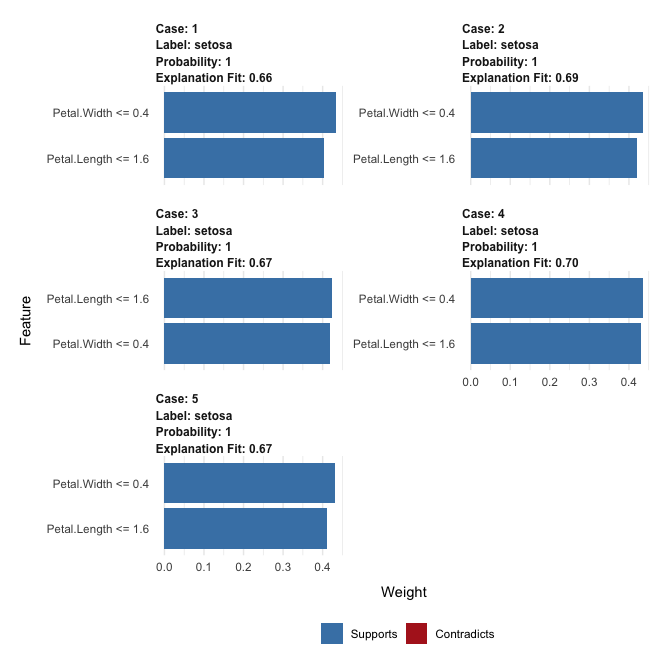
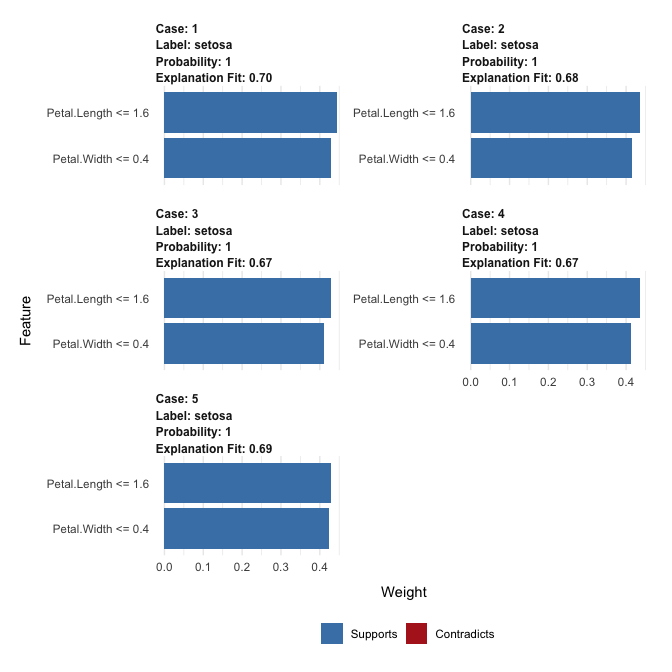
fix urls

diff --git a/README.md b/README.md
@@ -7,7 +7,7 @@
 
 [![R-CMD-check](https://github.com/thomasp85/lime/actions/workflows/R-CMD-check.yaml/badge.svg)](https://github.com/thomasp85/lime/actions/workflows/R-CMD-check.yaml)
 [![Codecov test
-coverage](https://codecov.io/gh/thomasp85/lime/branch/main/graph/badge.svg)](https://codecov.io/gh/thomasp85/lime?branch=main)
+coverage](https://codecov.io/gh/thomasp85/lime/branch/main/graph/badge.svg)](https://app.codecov.io/gh/thomasp85/lime?branch=main)
 [![CRAN_Release_Badge](http://www.r-pkg.org/badges/version-ago/lime)](https://CRAN.R-project.org/package=lime)
 [![CRAN_Download_Badge](http://cranlogs.r-pkg.org/badges/lime)](https://CRAN.R-project.org/package=lime)
 <!-- badges: end -->
@@ -77,16 +77,16 @@ explanation
 #> # A tibble: 10 × 13
 #>    model_type   case  label label_prob model_r2 model_intercept model_prediction
 #>    <chr>        <chr> <chr>      <dbl>    <dbl>           <dbl>            <dbl>
-#>  1 classificat… 1     seto…          1    0.655           0.130            0.969
-#>  2 classificat… 1     seto…          1    0.655           0.130            0.969
-#>  3 classificat… 2     seto…          1    0.685           0.123            0.980
-#>  4 classificat… 2     seto…          1    0.685           0.123            0.980
-#>  5 classificat… 3     seto…          1    0.665           0.129            0.971
-#>  6 classificat… 3     seto…          1    0.665           0.129            0.971
-#>  7 classificat… 4     seto…          1    0.697           0.117            0.981
-#>  8 classificat… 4     seto…          1    0.697           0.117            0.981
-#>  9 classificat… 5     seto…          1    0.666           0.124            0.967
-#> 10 classificat… 5     seto…          1    0.666           0.124            0.967
+#>  1 classificat… 1     seto…          1    0.695           0.118            0.991
+#>  2 classificat… 1     seto…          1    0.695           0.118            0.991
+#>  3 classificat… 2     seto…          1    0.680           0.123            0.974
+#>  4 classificat… 2     seto…          1    0.680           0.123            0.974
+#>  5 classificat… 3     seto…          1    0.668           0.134            0.972
+#>  6 classificat… 3     seto…          1    0.668           0.134            0.972
+#>  7 classificat… 4     seto…          1    0.668           0.132            0.980
+#>  8 classificat… 4     seto…          1    0.668           0.132            0.980
+#>  9 classificat… 5     seto…          1    0.691           0.125            0.980
+#> 10 classificat… 5     seto…          1    0.691           0.125            0.980
 #> # … with 6 more variables: feature <chr>, feature_value <dbl>,
 #> #   feature_weight <dbl>, feature_desc <chr>, data <list>, prediction <list>
 
